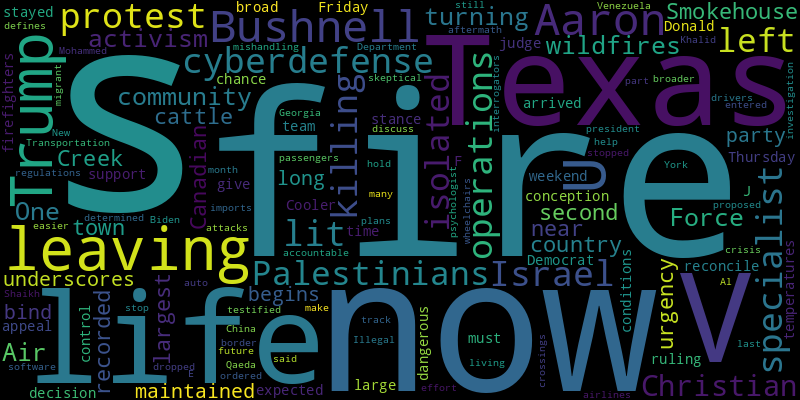
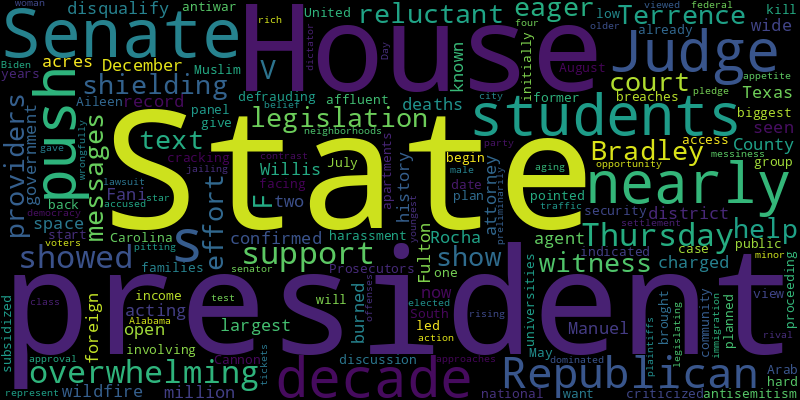
chore(bot): 🙈 auto commit

diff --git a/README.md b/README.md
@@ -2,41 +2,41 @@
 Auto RSS New York Times and Generate Word Cloud
 
 ## New York Times Global News
-* The president of Egypt said he hoped a truce could be reached “in the next few days,” even as Hamas signaled it was far from a breakthrough with Israel.
-* Bosnia is being hit by a combination of a low birthrate and emigration, a trend fueled by ethnic tensions and disgust with corruption.
-* Inspired by the unity they experienced in the military, thousands of reservists returning from the front line in Gaza are organizing for political change.
-* Goo Hara’s life was a struggle from the start. She ended it at 28, isolated and harassed online.
-* A scheduled service for the Russian opposition leader will be open to the public, but it is unclear whether the authorities will try to stop people from attending.
-* The legislation would sentence those who identify as L.G.B.T.Q. to three years in jail and punish those who promote gay issues as well. It would be among the harshest on the African continent.
-* Investigators looking into the drowning of more than 600 people off Greece say that the border agency known as Frontex cannot fulfill its mission.
-* Transnistria declared independence in 1992 but is not recognized internationally. The request by the territory’s legislature could fuel regional tensions as the war in Ukraine rages.
-* The vote by lawmakers comes after supporters of the measure in France were galvanized by the U.S. Supreme Court’s decision overturning Roe v. Wade.
-* The French president’s openness to Western troops in Ukraine signaled a quest for military resolve. But some allies felt blindsided.
+* Palestinian and Israeli officials offered differing accounts of a deadly scene in northern Gaza, in which local health officials said more than 100 people were killed.
+* The United States and several European nations have been caught up in toxic debates that have altered election campaigns and led to eruptions of inflammatory language over the conflict.
+* “We also have weapons that can strike targets on their territory,” Mr. Putin said in an annual speech. “Do they not understand this?”
+* Voters enraged by a violent crackdown on protesters and disaffected by the failure of elections to yield substantive changes are vowing to make a statement by staying home during Friday’s elections.
+* Repeated threats by President Vladimir Putin of Russia to make use of nuclear weapons have become the background theme of the war in Ukraine, often timed for maximum effect.
+* After a prolonged Parliamentary debate, details about two microbiology researchers who were found to have shared secrets with China have been released.
+* Yaya Dillo, who was expected to run for president in May, was killed along with many others in a gun battle in the capital, the national prosecutor said.
+* The brutal cold, revolting food and beatings aren’t the worst part of being imprisoned at IK3, where Aleksei Navalny died. Rather, it’s being inside a system meant to break the human spirit.
+* Ukrainian farmers and miners and their families who live to the west of the recently captured Avdiivka are poised to flee in the face of a Russian onslaught.
+* The trend lines may be grim, but the Japanese aren’t sweating them.
 
 ![Global](./global.png)
 ## New York Times United States News
-* Aaron Bushnell, the cyberdefense operations specialist who lit himself on fire to protest Israel’s killing of Palestinians, had left an isolated Christian community for the Air Force before turning to activism.
-* One of the wildfires, the Smokehouse Creek fire near the cattle-country town of Canadian, is now the second-largest ever recorded in Texas.
-* The urgency underscores the bind for the party, which has long maintained that life begins at conception but must now reconcile that stance with broad support for I.V.F.
-* The judge, a Democrat, stayed her ruling until Friday, leaving Donald J. Trump’s team time to appeal the decision.
-* Cooler temperatures Thursday were expected to give firefighters a chance to control the large fire before more dangerous conditions arrived this weekend.
-* The Transportation Department said the proposed regulations would make it easier to hold airlines accountable for mishandling passengers’ wheelchairs.
-* Illegal crossings have dropped in the last month, but the migrant crisis still defines life on the border, where many are skeptical that Biden or Trump can help.
-* The president ordered an investigation into auto software that could track U.S. drivers, part of a broader effort to stop E.V. imports from China.
-* After leaving Venezuela, he entered the U.S. through Texas and stopped in New York before living in Georgia.
-* In the aftermath of the attacks, interrogators were determined to get Khalid Shaikh Mohammed to discuss Al Qaeda’s future plans, a psychologist testified.
+* Republicans in the State House and Senate on Thursday showed overwhelming support for legislation shielding I.V.F. providers.
+* Terrence Bradley was a reluctant witness in court, but text messages show he was eager to help an effort to disqualify Fani Willis, the Fulton County district attorney.
+* A state known for its wide open space has now seen more than a million acres of it burned in the largest wildfire on record in Texas history, with two confirmed deaths.
+* Manuel Rocha was charged in December with acting as an agent of a foreign government and defrauding the United States, in a case involving one of the biggest national security breaches in years.
+* At a discussion led by a House panel, students criticized their universities for not cracking down on antisemitism. An antiwar group pointed out that Muslim and Arab students are facing harassment, too.
+* Judge Aileen Cannon has already indicated that she will push back the start of the proceeding from the initially planned date in May. Prosecutors want to begin in July, and the former president in August.
+* The push from an affluent community in South Carolina to kill a plan for 60 subsidized apartments brought into public view how hard it is give low-income families access to opportunity-rich neighborhoods.
+* Their approaches to immigration represent a test of voters’ appetite for the messiness of democracy, pitting the president’s belief in legislating against his rival’s pledge to be a “Day 1” dictator.
+* A federal judge gave the settlement preliminarily approval nearly a decade after a class-action lawsuit accused the city of wrongfully jailing plaintiffs for traffic tickets and other minor offenses.
+* The Alabama senator, the youngest Republican woman to be elected to the Senate, is viewed as a rising star in an aging, male-dominated party, and as a contrast to President Biden, who is nearly four decades older.
 
 ![US](./usnews.png)
 ## New York Times Asia News
-* The president ordered an investigation into auto software that could track U.S. drivers, part of a broader effort to stop E.V. imports from China.
+* In gritty tales from China’s northeast, Shuang Xuetao chronicles a traumatic chapter of Chinese history with fresh resonance today: the mass layoffs that afflicted the region in the 1990s.
+* Officials said the multistory fire broke out just before 10 p.m. on Thursday. The blaze left dozens injured, many in critical condition.
+* After a prolonged Parliamentary debate, details about two microbiology researchers who were found to have shared secrets with China have been released.
+* Plus Donald Trump’s delay tactics paid off.
+* The president ordered an investigation into auto technology that could track U.S. drivers, part of a broader effort to stop E.V. and other smart-car imports from China.
 * The trend lines may be grim, but the Japanese aren’t sweating them.
 * Dozens of unattended fuel stations across the country stopped working on Thursday for hours because of a software issue.
 * More than a week after thousands of doctors walked off the job, their dispute with the government shows no signs of resolution.
 * China has no dissident with the kind of public profile that Aleksei A. Navalny had. The government has many critics, but they all disappear from view.
 * Plus a protest vote against President Biden.
-* Goo Hara’s life was a struggle from the start. She ended it at 28, isolated and harassed online.
-* Mukesh Ambani’s Reliance Industries will control what is left of Disney’s grasp at India’s burgeoning media market.
-* The legal change, which could further limit access to information, is part of an increasingly hostile environment facing foreign businesses in the country.
-* Country Garden was once China’s biggest developer but ran out of money. A lender is taking it to court in Hong Kong, a sign of continuing market distress.
 
 ![Asian](./asian.png)
